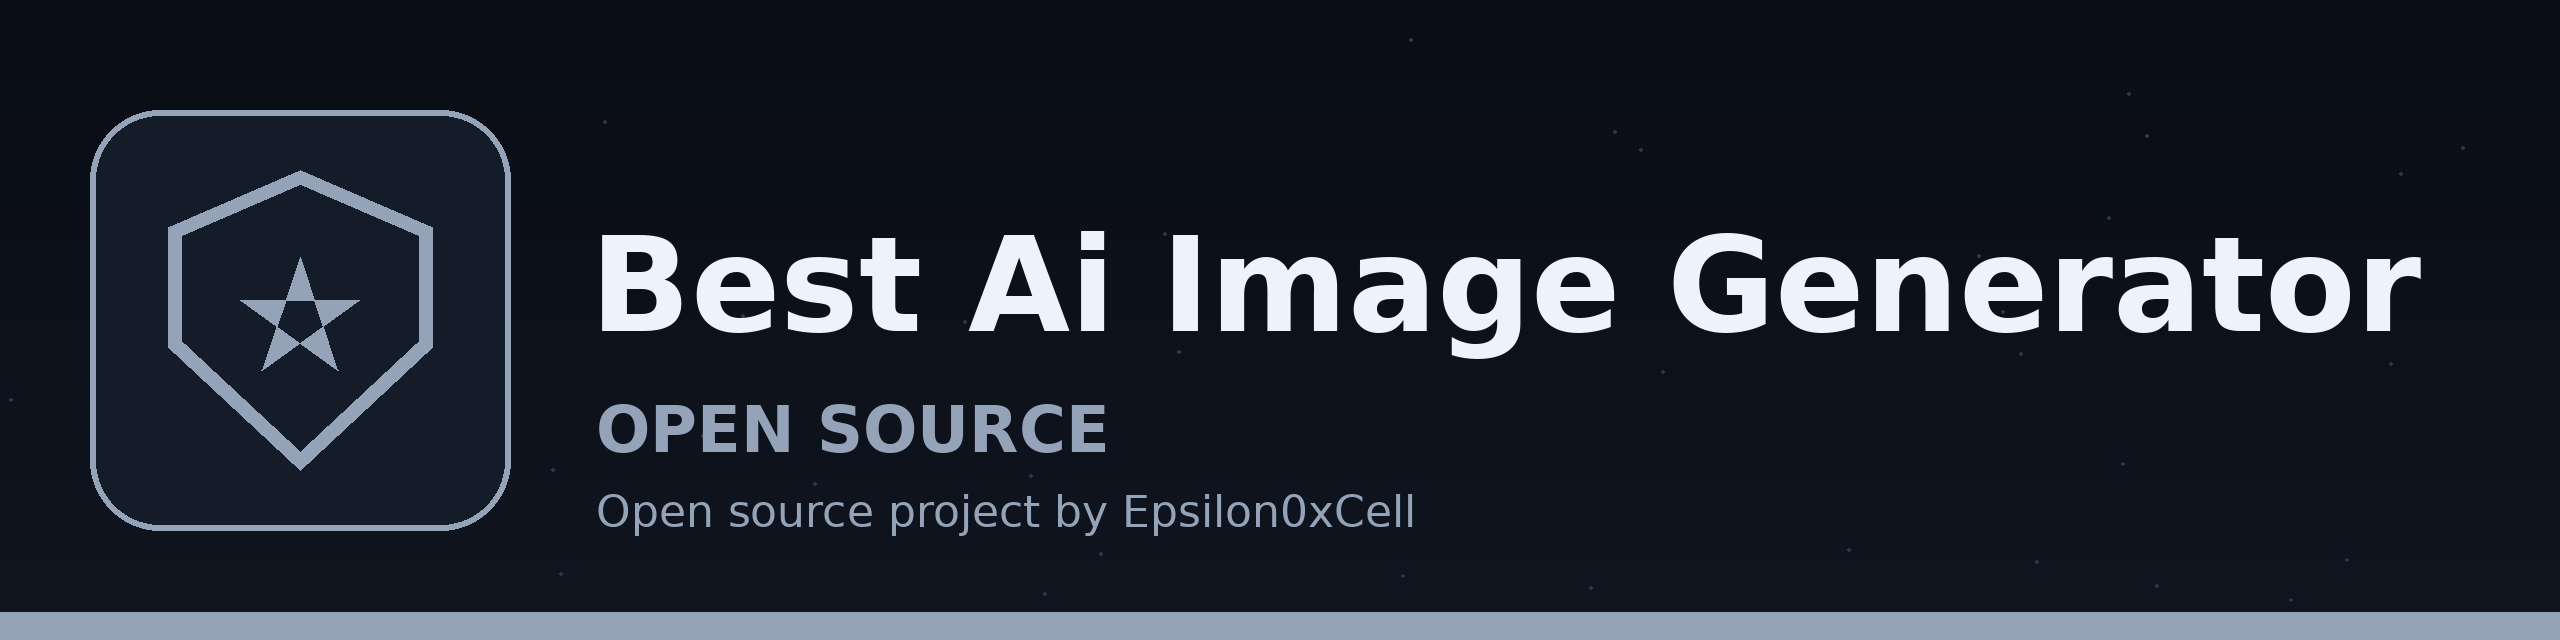
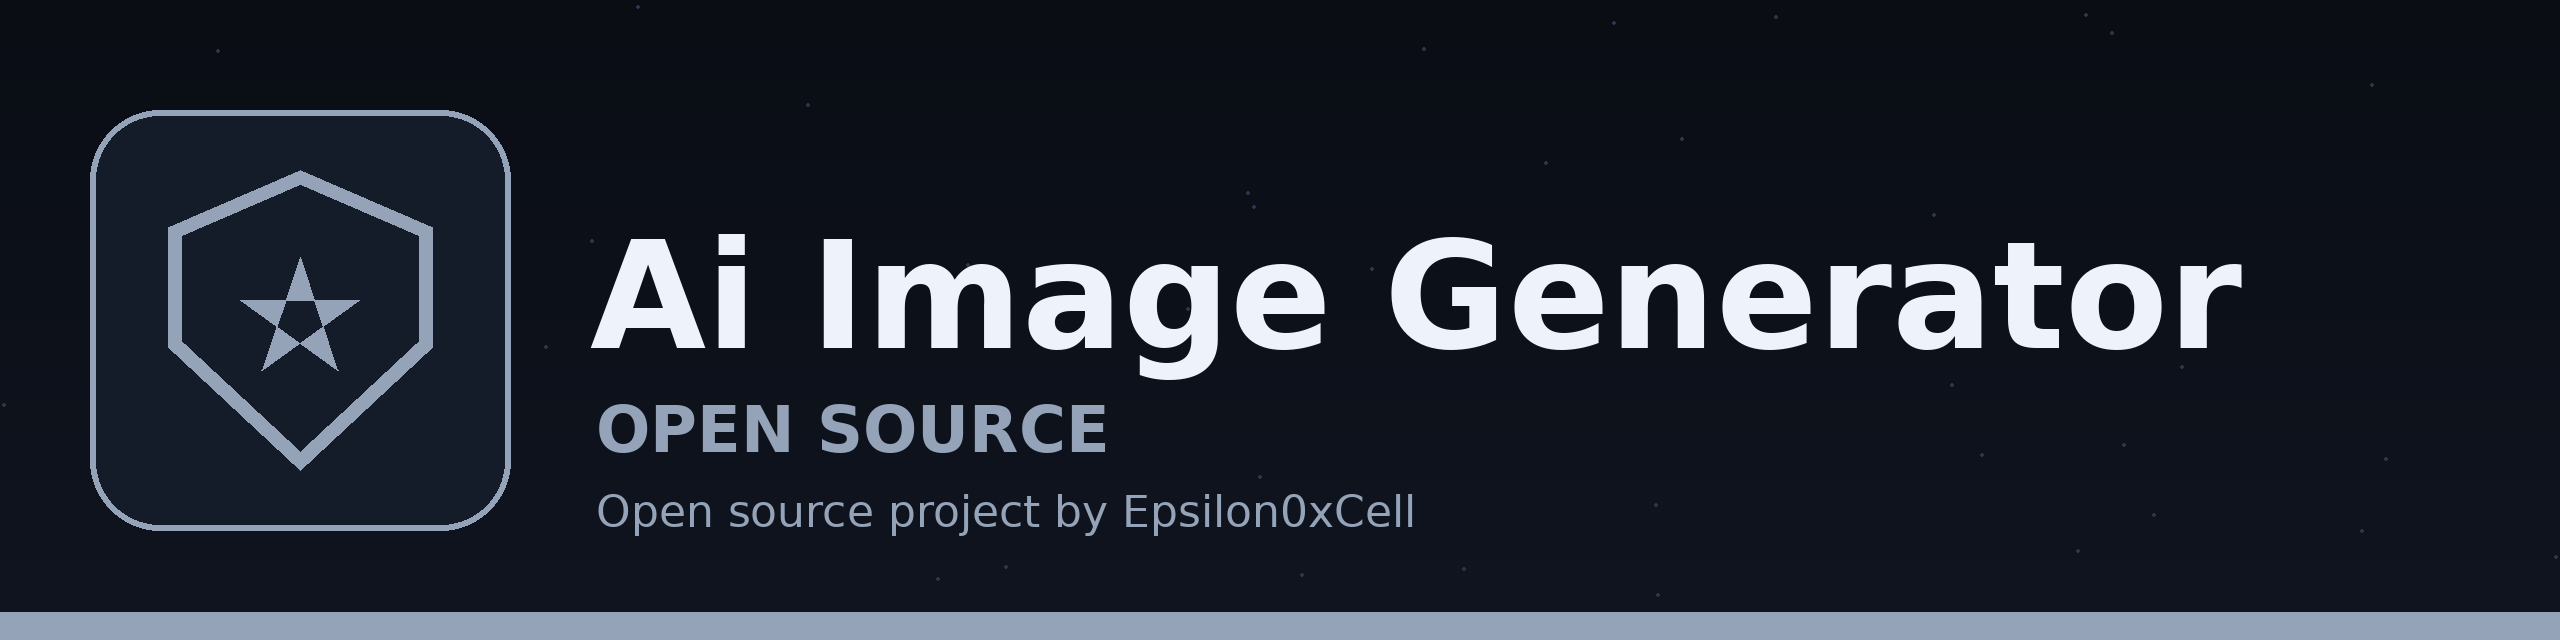
Update name to AI-Image-Generator: README title and branding

Changed region(s): [[0.2188, 0.3438, 0.9688, 0.5938]]

diff --git a/README.md b/README.md
@@ -1,6 +1,6 @@
 ![Banner](banner.png)
 
-# Best-AI-Image-Generator
+# AI-Image-Generator
 
 Google AI Studio Imagen v4 Ultra
 
